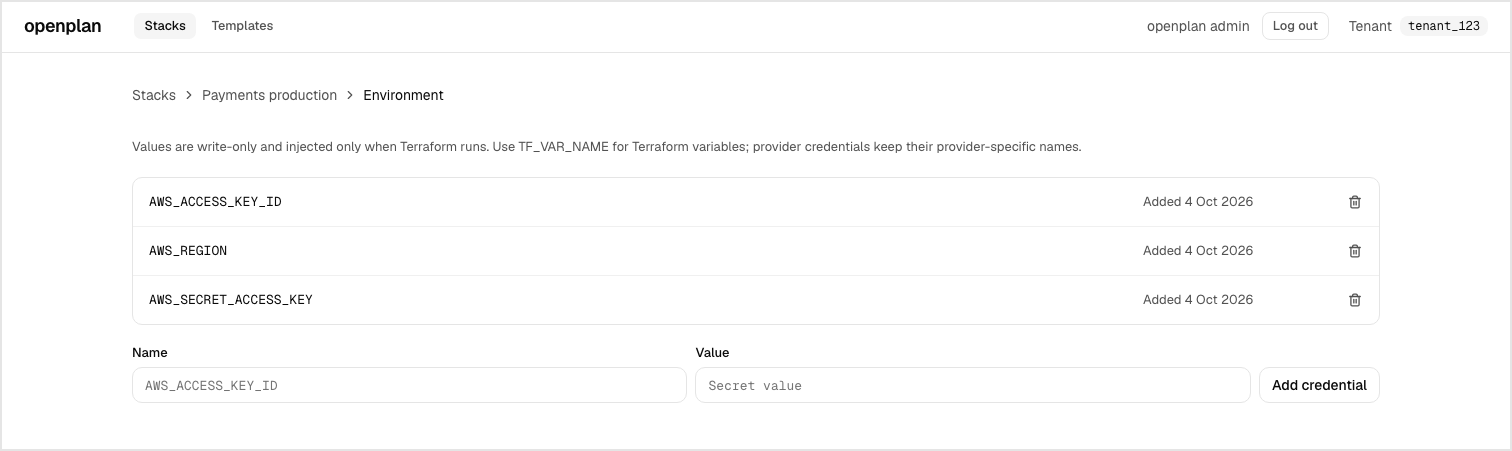
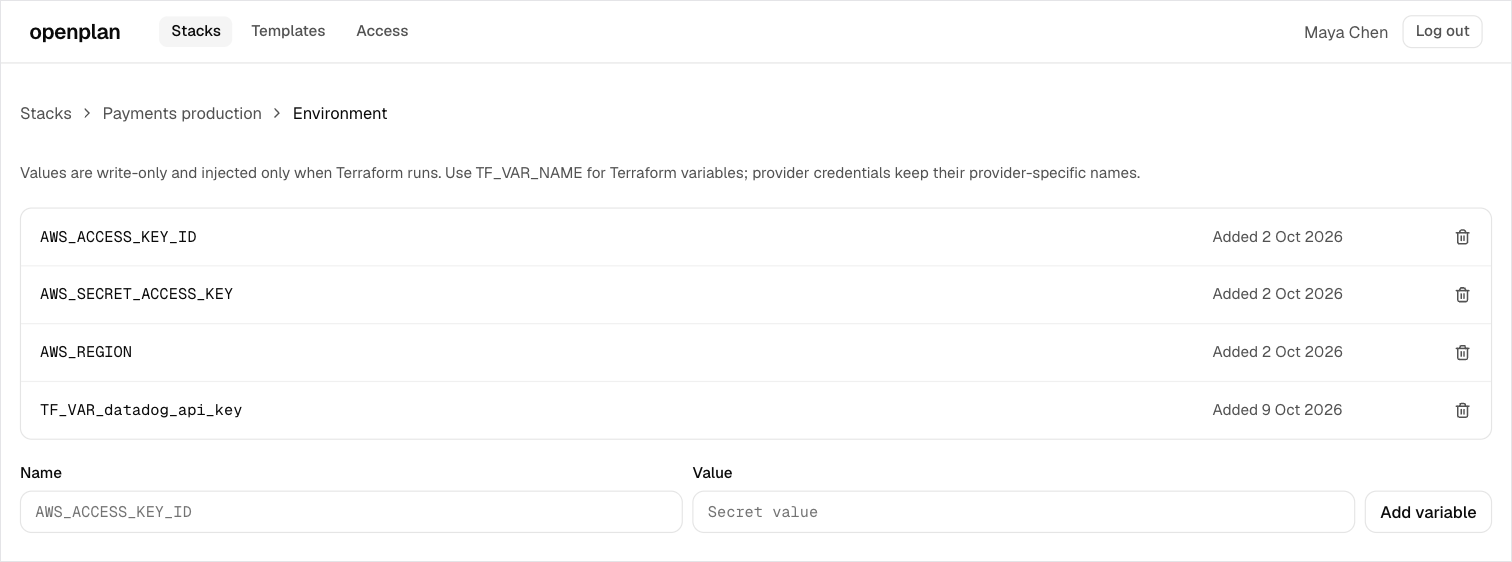
docs: retake the README screenshots on openplan UI (#494)
* docs: retake the README screenshots on openplan UI

The eight screenshots predate the openplan UI screens and still showed the
header's tenant chip, dropped in #490. Retaken from main at 1280 px, light,
against a fixture tenant, at the old files' 1512 px width. The credentials
caption no longer calls the stack's Environment page a tab.

* docs: say what a template's Settings tab shows

It shows the revision the template runs, with Change revision, and
Destroy; it no longer shows the applied revision or where it differs.

---------

diff --git a/README.md b/README.md
@@ -49,14 +49,14 @@ per stack.
 **Credentials.** Cloud credentials are write-only and injected only while
 Terraform runs.
 
-![The environment credentials tab](docs/ss/environment-credentials.png)
+![A stack's environment credentials](docs/ss/environment-credentials.png)
 
 **Access.** Grant people a role on the stacks they need, not on everything.
 
 ![The stack access tab, showing grants and role assignment](docs/ss/stack-access.png)
 
-**Settings.** Which revision a stack is on, which one it has applied, and where
-it differs.
+**Settings.** The revision a template runs, where you change it, and Destroy,
+which plans the removal of everything the template manages.
 
 ![A template's settings](docs/ss/run-history-and-destroy.png)
 
